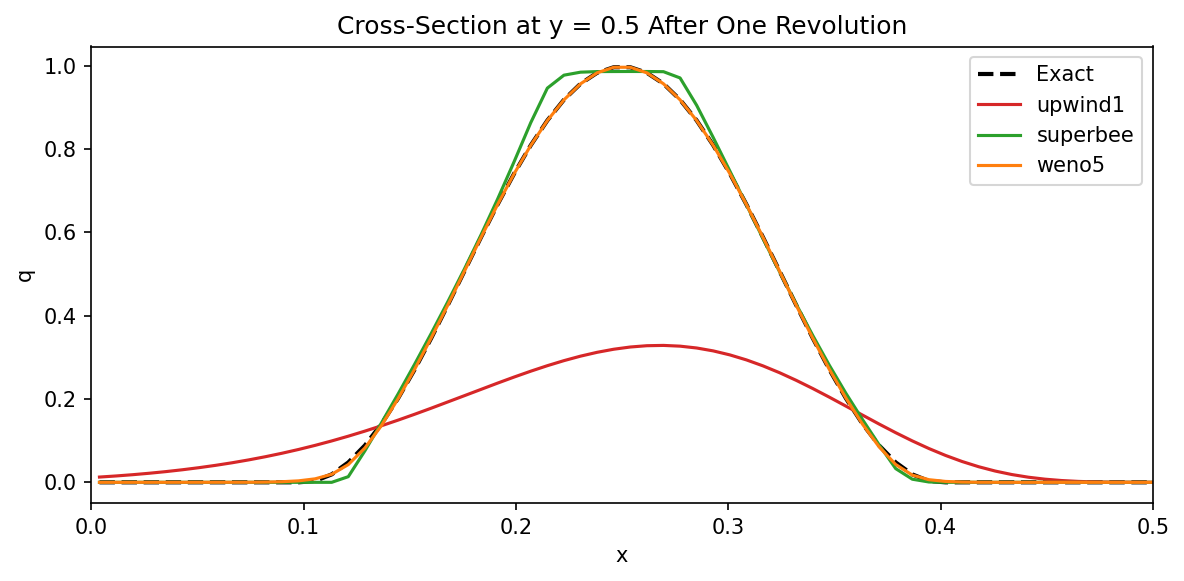
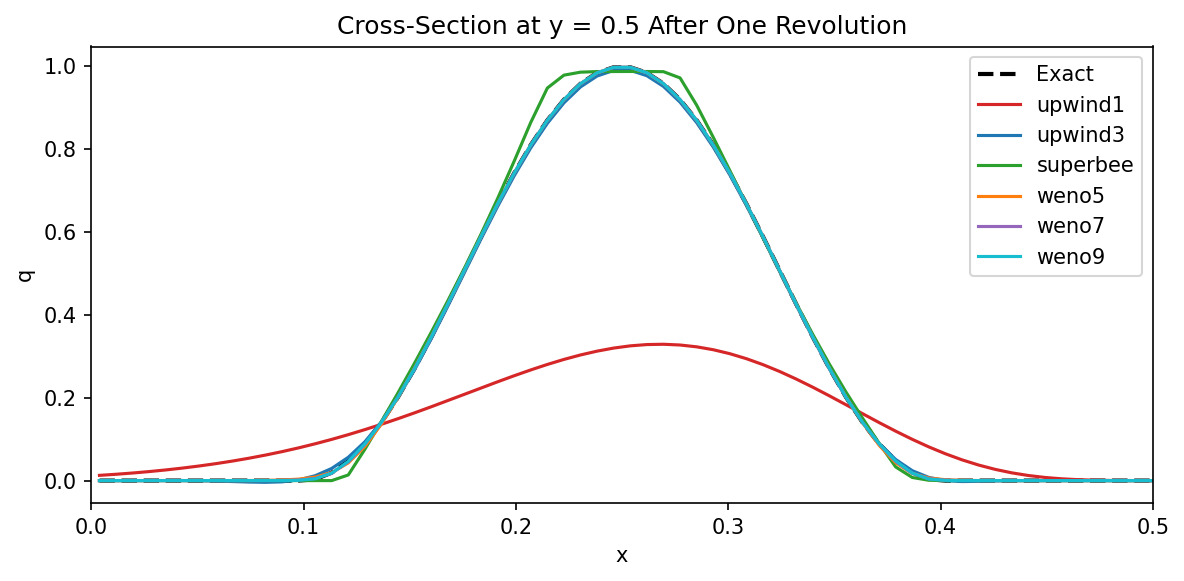
docs: add weno7, weno9, and upwind3 to advection tutorials
1D notebook: add weno7/weno9 to square-wave comparison, error norms,
and convergence study. Increase ghost cells to ng=5 for WENO9 support.

2D notebook: add upwind3/weno7/weno9 to rotation benchmark with 2x3
subplot layout for scheme comparison and error maps. Update summary
table and cross-section plot.

diff --git a/docs/notebooks/advection_2d_rotation.py b/docs/notebooks/advection_2d_rotation.py
@@ -114,7 +114,7 @@ IMG_DIR.mkdir(parents=True, exist_ok=True)
 #
 # We build a 2-D Arakawa C-grid on the doubly-periodic domain
 # $[0, 1] \times [0, 1]$.  As in the 1-D tutorial, we add extra ghost
-# cells (`ng = 4` per side) so that the advection operator's write region
+# cells (`ng = 5` per side) so that the advection operator's write region
 # `[2:-2, 2:-2]` covers all physical cells.
 #
 # ### C-grid staggering
@@ -140,7 +140,7 @@ Lx = Ly = 1.0
 omega = 2 * jnp.pi  # angular velocity → period T = 1.0
 
 # --- ghost ring ---
-ng = 4  # ghost cells per side
+ng = 5  # ghost cells per side (≥ 5 for WENO9)
 
 # --- grid ---
 dx = Lx / nx
@@ -303,11 +303,11 @@ print(f"|u|_max = {u_max:.2f}, |v|_max = {v_max:.2f}, CFL ≈ {cfl:.2f}")
 # %% [markdown]
 # ## Running the Simulation
 #
-# We compare three schemes: `upwind1`, `superbee`, and `weno5`.
+# We compare six schemes spanning upwind, TVD, and WENO families.
 
 # %%
 advect = fvx.Advection2D(grid)
-methods_2d = ["upwind1", "superbee", "weno5"]
+methods_2d = ["upwind1", "upwind3", "superbee", "weno5", "weno7", "weno9"]
 results_2d = {}
 
 # Snapshot times (fractions of period)
@@ -372,15 +372,21 @@ fig.savefig(IMG_DIR / "weno5_snapshots.png", dpi=150, bbox_inches="tight")
 # %% [markdown]
 # ## Scheme Comparison After One Revolution
 #
-# Comparing the three schemes side by side reveals how much each one
+# Comparing the schemes side by side reveals how much each one
 # erodes the peak and distorts the shape.
 
 # %%
 exact_2d = np.asarray(q0_phys)
 
-fig, axes = plt.subplots(1, 3, figsize=(14, 4.2), sharey=True, constrained_layout=True)
+n_methods = len(methods_2d)
+ncols = 3
+nrows = (n_methods + ncols - 1) // ncols
+fig, axes = plt.subplots(
+    nrows, ncols, figsize=(14, 4.2 * nrows), sharey=True, constrained_layout=True
+)
+axes_flat = axes.ravel() if nrows > 1 else axes
 
-for ax, method in zip(axes, methods_2d):
+for ax, method in zip(axes_flat, methods_2d):
     data = results_2d[method]
     im = ax.pcolormesh(x_np, y_np, data, vmin=0, vmax=1, cmap="RdYlBu_r", shading="auto")
     ax.contour(x_np, y_np, exact_2d, levels=[0.05, 0.5, 0.95], colors="k", linewidths=0.8, linestyles="--")
@@ -389,7 +395,13 @@ for ax, method in zip(axes, methods_2d):
     ax.set_xlabel("x")
     ax.set_aspect("equal")
 
-axes[0].set_ylabel("y")
+# Hide unused subplots
+for ax in axes_flat[n_methods:]:
+    ax.set_visible(False)
+
+axes_flat[0].set_ylabel("y")
+if nrows > 1:
+    axes_flat[ncols].set_ylabel("y")
 fig.colorbar(im, ax=axes, label="q", shrink=0.85)
 fig.suptitle("Scheme Comparison After One Full Revolution", fontsize=13)
 fig.savefig(IMG_DIR / "scheme_comparison.png", dpi=150, bbox_inches="tight")
@@ -405,11 +417,14 @@ fig.savefig(IMG_DIR / "scheme_comparison.png", dpi=150, bbox_inches="tight")
 # should be none; negative values (blue) indicate mass was removed.
 
 # %%
-fig, axes = plt.subplots(1, 3, figsize=(14, 4.2), sharey=True, constrained_layout=True)
+fig, axes = plt.subplots(
+    nrows, ncols, figsize=(14, 4.2 * nrows), sharey=True, constrained_layout=True
+)
+axes_flat = axes.ravel() if nrows > 1 else axes
 
 err_max = max(float(np.max(np.abs(results_2d[m] - exact_2d))) for m in methods_2d)
 
-for ax, method in zip(axes, methods_2d):
+for ax, method in zip(axes_flat, methods_2d):
     err = results_2d[method] - exact_2d
     im = ax.pcolormesh(
         x_np, y_np, err, vmin=-err_max, vmax=err_max, cmap="RdBu_r", shading="auto"
@@ -419,7 +434,12 @@ for ax, method in zip(axes, methods_2d):
     ax.set_xlabel("x")
     ax.set_aspect("equal")
 
-axes[0].set_ylabel("y")
+for ax in axes_flat[n_methods:]:
+    ax.set_visible(False)
+
+axes_flat[0].set_ylabel("y")
+if nrows > 1:
+    axes_flat[ncols].set_ylabel("y")
 fig.colorbar(im, ax=axes, label="q(T) - q0", shrink=0.85)
 fig.suptitle("Error After One Revolution", fontsize=13)
 fig.savefig(IMG_DIR / "error_maps.png", dpi=150, bbox_inches="tight")
@@ -439,7 +459,14 @@ j_centre = ny // 2  # row index for y ≈ 0.5
 fig, ax = plt.subplots(figsize=(8, 4))
 ax.plot(x_np, exact_2d[j_centre, :], "k--", lw=2, label="Exact")
 
-colours_2d = {"upwind1": "#d62728", "superbee": "#2ca02c", "weno5": "#ff7f0e"}
+colours_2d = {
+    "upwind1": "#d62728",
+    "upwind3": "#1f77b4",
+    "superbee": "#2ca02c",
+    "weno5": "#ff7f0e",
+    "weno7": "#9467bd",
+    "weno9": "#17becf",
+}
 for method in methods_2d:
     ax.plot(
         x_np,
@@ -466,12 +493,16 @@ fig.savefig(IMG_DIR / "cross_section.png", dpi=150, bbox_inches="tight")
 # | Scheme | Peak at $t=T$ | $L_2$ error | Character |
 # |--------|:---:|:---:|-----------|
 # | `upwind1` | low | high | Massive diffusion, bell nearly flat |
+# | `upwind3` | moderate | moderate | 3rd-order upwind, less diffusion |
 # | `superbee` | moderate | moderate | TVD-sharp edges, some steepening |
-# | `weno5` | high | low | Best shape preservation overall |
+# | `weno5` | high | low | Good shape preservation |
+# | `weno7` | very high | very low | Sharper peaks and finer features |
+# | `weno9` | very high | very low | Highest fidelity on smooth flows |
 #
-# The numbers confirm the 1-D findings: **`weno5`** is the best
-# general-purpose choice, while **`superbee`** trades peak accuracy for
-# strict monotonicity.
+# Higher-order WENO schemes (`weno7`, `weno9`) preserve the peak better
+# and resolve fine structure more sharply.  The improvement from `weno5` to
+# `weno7` is typically larger than from `weno7` to `weno9`, since both are
+# limited by the 3rd-order time integrator at coarse CFL.
 #
 # ## Next Steps
 #

diff --git a/docs/notebooks/advection_1d_schemes.py b/docs/notebooks/advection_1d_schemes.py
@@ -72,7 +72,7 @@
 # %% [markdown]
 # ## The Four Schemes We Compare
 #
-# We test four schemes spanning the library's range:
+# We test six schemes spanning the library's range:
 #
 # | Scheme | Type | Order | Character |
 # |--------|------|-------|-----------|
@@ -80,6 +80,8 @@
 # | `upwind3` | Upwind | 3 | Less diffusion, mild Gibbs-like oscillations |
 # | `superbee` | TVD limiter | 2 | Sharpest monotone scheme — compresses fronts |
 # | `weno5` | WENO | 5 | High-order smooth + non-oscillatory near shocks |
+# | `weno7` | WENO | 7 | Higher-order, sharper resolution of fine features |
+# | `weno9` | WENO | 9 | Highest-order, best for smooth flows |
 #
 # **Upwind 1st-order** reconstructs the face value as the upwind cell value:
 #
@@ -148,8 +150,8 @@ IMG_DIR.mkdir(parents=True, exist_ok=True)
 #   ← ng →                                 ← ng →
 # ```
 #
-# We use `ng = 4` ghost cells per side, which is enough for all schemes
-# up to WENO7.
+# We use `ng = 5` ghost cells per side, which is enough for all schemes
+# up to WENO9.
 
 # %%
 # --- physical parameters ---
@@ -158,7 +160,7 @@ Lx = 1.0  # domain length
 c = 1.0  # advection velocity
 
 # --- ghost ring ---
-ng = 4  # ghost cells per side (≥ 3 for WENO5)
+ng = 5  # ghost cells per side (≥ 5 for WENO9)
 
 # --- grid ---
 dx = Lx / nx
@@ -288,7 +290,7 @@ print(f"CFL = {cfl}, dt = {dt:.4e}, nsteps = {nsteps}")
 
 # %%
 advect = fvx.Advection1D(grid)
-methods = ["upwind1", "upwind3", "superbee", "weno5"]
+methods = ["upwind1", "upwind3", "superbee", "weno5", "weno7", "weno9"]
 results = {}
 
 for method in methods:
@@ -326,7 +328,14 @@ x_np = np.asarray(x_phys)
 fig, ax = plt.subplots(figsize=(10, 5))
 ax.plot(x_np, exact, "k--", lw=2, label="Exact", zorder=5)
 
-colours = {"upwind1": "#d62728", "upwind3": "#1f77b4", "superbee": "#2ca02c", "weno5": "#ff7f0e"}
+colours = {
+    "upwind1": "#d62728",
+    "upwind3": "#1f77b4",
+    "superbee": "#2ca02c",
+    "weno5": "#ff7f0e",
+    "weno7": "#9467bd",
+    "weno9": "#17becf",
+}
 
 for method in methods:
     ax.plot(x_np, results[method], color=colours[method], lw=1.5, label=method)
@@ -415,6 +424,8 @@ for method in methods:
 # | `upwind3` | 3 |
 # | `superbee` | 2 |
 # | `weno5` | 5 |
+# | `weno7` | 7 (capped at ~3 by RK3 time integrator) |
+# | `weno9` | 9 (capped at ~3 by RK3 time integrator) |
 #
 # > **Note:** for a discontinuous profile (our square wave), all schemes
 # > degrade to 1st-order at the discontinuities.  We therefore also run
@@ -475,7 +486,7 @@ for method in methods:
     ax.loglog(dx_arr, convergence[method], "o-", color=colours[method], lw=1.5, label=method)
 
 # Reference slopes
-for order, ls in [(1, ":"), (2, "-."), (3, "--"), (5, "-")]:
+for order, ls in [(1, ":"), (2, "-."), (3, "--"), (5, "-"), (7, (0, (3, 1, 1, 1)))]:
     ref = convergence["upwind1"][0] * (dx_arr / dx_arr[0]) ** order
     ax.loglog(dx_arr, ref, color="grey", ls=ls, lw=0.8, alpha=0.5, label=f"O(Δx$^{order}$)")
 
@@ -499,9 +510,12 @@ fig.savefig(IMG_DIR / "convergence.png", dpi=150, bbox_inches="tight")
 # | **upwind3** | Much less diffusion than upwind1 | Oscillations near discontinuities |
 # | **superbee** | Sharpest monotone (TVD) scheme | Can create staircase artefacts on smooth profiles |
 # | **weno5** | High-order smooth, low oscillation | Slightly more expensive per cell |
+# | **weno7** | Sharper features than weno5 | Wider stencil (8 pts), higher cost |
+# | **weno9** | Highest accuracy on smooth flows | Widest stencil (10 pts), highest cost |
 #
-# **Recommendation:** Use **`weno5`** as the default.  Switch to a TVD
-# limiter (`superbee` or `van_leer`) when strict monotonicity is required
+# **Recommendation:** Use **`weno5`** as the default.  Switch to **`weno7`**
+# or **`weno9`** when resolving fine-scale structure in smooth flows.  Use a
+# TVD limiter (`superbee` or `van_leer`) when strict monotonicity is required
 # (e.g., positive-definite tracers).  Use `upwind1` only as a fallback near
 # boundaries.
 #
